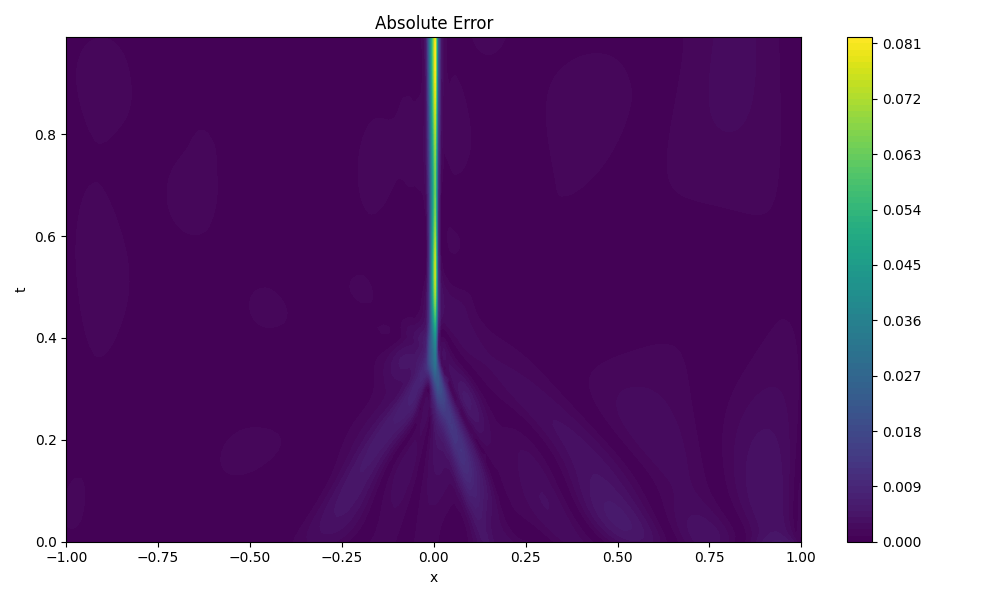
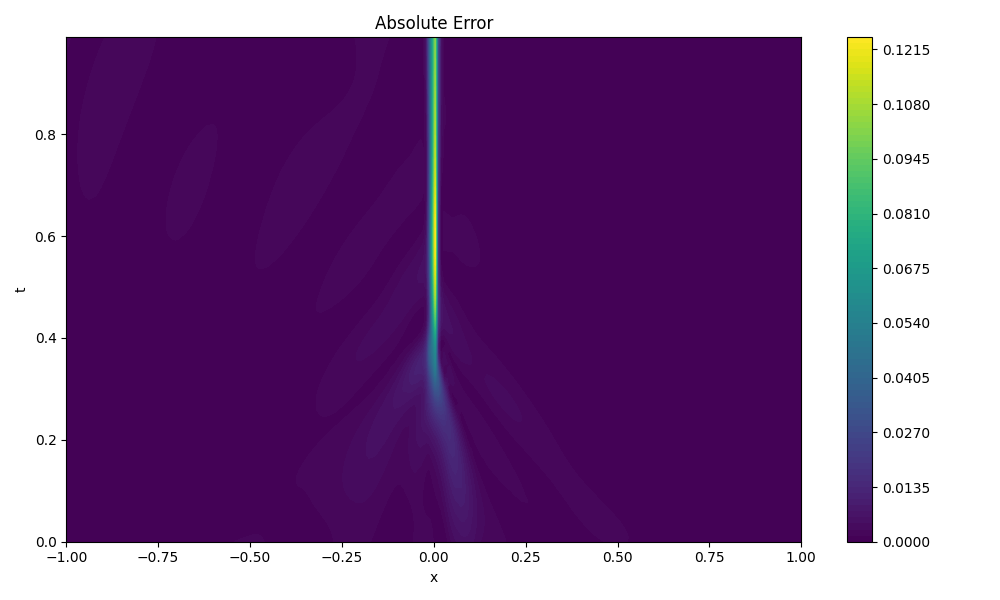
gates, experts画图，soft_topk_gating方法

diff --git a/main.py b/main.py
@@ -12,7 +12,7 @@ import argparse
 import numpy as np
 from functorch import make_functional, vmap
 from moe_module.moe import MOE_Model,MLP_Model
-from moe_module.utils import parse_args, _init_data_dim1, get_optimizer, get_loss_fn, log_with_time,plot_dual_axis, plot_expert_useless_rank, get_activation, generate_data, get_writer,gates_image, Timetxt, runcode
+from moe_module.utils import parse_args, _init_data_dim1, get_optimizer, get_loss_fn, log_with_time,plot_dual_axis, plot_expert_useless_rank, get_activation, generate_data, get_writer,gates_experts_image, save_model, Timetxt, runcode
 from moe_module.epi_rank import epi_rank_mlp
 # download data
 import torchvision.transforms as transforms
@@ -95,7 +95,7 @@ def train_loop(X_init, X_bnd, X_f, X_total, u_init, model,loss_fn, optim, args,s
         if step % 100 == 0:
             eval_model(step,X_init, X_bnd, X_f, X_total, u_init, model, loss_fn,moe_training,args)
             if moe_training:
-                gates_image(model,args.X_test,args.writer)
+                gates_experts_image(model,args.X_test, step, args.writer)
 
             #update points
             # args.seed=args.seed+step
@@ -142,6 +142,10 @@ def train_loop(X_init, X_bnd, X_f, X_total, u_init, model,loss_fn, optim, args,s
                 total_rank_list.append(rank[args.plt_r])
                 tqdm.write(f"Step {step+1}/{steps} - loss: {loss.item():.8f} -rank: {rank}")
                 args.writer.add_scalar('MLP_Loss', total_loss.item(), step)
+
+    if moe_training: save_model(model, "moe")
+    else: save_model(model, "mlp")
+
     return model,total_loss_list,total_rank_list,total_useless_expert_rank
             
 def eval_model(step,X_init, X_bnd, X_f, X_total, u_init, model, loss_fn,moe_training=True,args=None):
@@ -249,34 +253,6 @@ def eval_model(step,X_init, X_bnd, X_f, X_total, u_init, model, loss_fn,moe_trai
     plt.show()
 
 # %%
-    # # ---------- 如果是 MoE，再画 experts ----------
-    # if moe_training and model is not None:
-    #     fig, ax2 = plt.subplots(figsize=(10, 8))
-    #     for i in range(model.model[0].num_experts):
-    #         experts_outputs = model.model[0].experts[i](x)
-    #         Z_expert = experts_outputs.detach().cpu().numpy().flatten().reshape(nx, nt)
-    #         cf = ax2.contourf(X1, X2, Z_expert, levels=100, alpha=0.5, cmap='coolwarm')
-    #         plt.colorbar(cf, ax=ax2)
-    #         plt.title(f"Expert {i+1} Output Function")
-    #         plt.xlabel("x")
-    #         plt.ylabel("t")
-    #         plt.savefig(f"expert_{i+1}_function.png")
-    #         plt.show()
-
-    # if moe_training:
-    #     # Plot experts functions
-    #     fig, ax2 = plt.subplots(figsize=(17, 9))
-    #     ax2.plot(x.cpu().numpy(), y.cpu().numpy(), label='Ground Truth', color='k')
-    #     for i in range(model.model[0].num_experts):
-    #         experts_outputs = model.model[0].experts[i](x)
-    #         # plt.subplot(1, model.model[0].num_experts, i + 1)
-    #         ax2.plot(x.cpu().numpy(), experts_outputs.detach().cpu().numpy(), label=f'Expert {i+1}')
-    #         plt.title(f'Experts Function')
-
-    #     fig.tight_layout()
-    #     plt.savefig(f"experts_functions.png")  # 保存图像
-    #     plt.show()
-# %%
 
 
 def main():
@@ -298,6 +274,7 @@ def main():
                          )
 
     model_moe=MOE_Model(args.input_size, args.num_experts,args.hidden_size,args.depth, args.output_size,args.k,args.loss_coef, activation).to(args.device)
+    args.writer.add_text("Numbers of parameters: ",f"{model_moe._report_trainable()}")
     optimizer = get_optimizer(args.optim,model_moe.parameters(), lr=args.lr)
     model,total_loss_list_moe,rank_list_moe,total_useless_expert_rank_moe=train_loop(data_X_init,data_X_bnd,data_X_f,data_X_total,data_u_init, model_moe,loss_fn, optimizer, args,args.opt_steps, moe_training=True)
     eval_model(args.opt_steps+args.lbfgs_steps,data_X_init,data_X_bnd,data_X_f,data_X_total,data_u_init, model, loss_fn,moe_training=True,args=args)
@@ -305,6 +282,7 @@ def main():
     plot_expert_useless_rank(np.array(total_loss_list_moe),np.array(total_useless_expert_rank_moe),args.opt_steps+args.lbfgs_steps,"moe")
 
     # model_mlp=MLP_Model(args.input_size, args.hidden_size,args.depth, args.output_size, activation).to(args.device)
+    # args.writer.add_text("Numbers of parameters: ", f"{model_mlp._report_trainable()}")
     # optimizer_mlp=get_optimizer(args.optim,model_mlp.parameters(), lr=args.lr)
     # model_mlp,total_loss_list_mlp,rank_list_mlp,total_useless_expert_rank_mlp=train_loop(data_X_init,data_X_bnd,data_X_f,data_X_total,data_u_init, model_mlp,loss_fn, optimizer_mlp, args,args.opt_steps,moe_training=False)
     # eval_model(args.opt_steps+args.lbfgs_steps,data_X_init,data_X_bnd,data_X_f,data_X_total,data_u_init, model_mlp, loss_fn,moe_training=False,args=args)
@@ -313,5 +291,4 @@ def main():
 
 if __name__ == "__main__":
     torch.set_default_dtype(torch.float64)
-    main()      
-    
+    main()

diff --git a/moe_module/utils.py b/moe_module/utils.py
@@ -18,7 +18,7 @@ def parse_args():
     parser = argparse.ArgumentParser(description="Train a Mixture-of-Experts model.")
     parser.add_argument("--epochs", type=int, default=10, help="Number of training epochs.")
     parser.add_argument("--lr", type=float, default=1e-3, help="Learning rate.")
-    parser.add_argument("--lr_decay", type=float, default=0.995, help="Learning rate decay factor.")
+    parser.add_argument("--lr_decay", type=float, default=0.997, help="Learning rate decay factor.")
     parser.add_argument("--lr_step", type=int, default=50, help="Learning rate decay step size.")
     parser.add_argument("--device", type=str, default="cuda:5" if torch.cuda.is_available() else "cpu", help="Device to train on.")    
     parser.add_argument("--input_size", type=int, default=2,help="Input size (funcion approximation x) ")
@@ -28,7 +28,7 @@ def parse_args():
     parser.add_argument("--depth", type=int, default=7,help="Depth of the MOE model")
     parser.add_argument("--lossfn", type=str, default="mse", help="Loss function.")
     parser.add_argument("--optim", type=str, default="adamw")
-    parser.add_argument("--opt_steps", type=int, default=40000)
+    parser.add_argument("--opt_steps", type=int, default=100000)
     parser.add_argument("--activation", type=str, default="tanh", help="activation_function")
     parser.add_argument("--init_func", type=str, default="-sin(pi*x)", help="function")
     parser.add_argument("--x_interval", type=str, default="[-1,1]")
@@ -320,13 +320,13 @@ def save_model(model,name='mlp'):
     torch.save(model.state_dict(), save_path)
     print(f"✅ 模型已保存到: {save_path}")
     
-def gates_image(model,X_test,writer):
+def gates_experts_image(model,X_test,step,writer):
     """for moe mode MOE_modify_beta"""
     moe=model.moe
     with torch.no_grad():
-        gate_output,_,_=moe.gating_network(X_test,train=False)
-        gate_output= gate_output/(moe.epsilon+1e-1*torch.abs(gate_output)) #+1e-4*torch.abs(gates)
-        gate_output= moe.softmax(gate_output)
+        gate_output, _ = moe.soft_topk_Gating(X_test,train=False)
+        # gate_output, _ = moe.e_softmax_Gating(X_test,train=False)
+        # gate_output, _ = moe.topkGating(X_test,train=False)
 
     x = X_test[:,0].detach().cpu().numpy()
     t = X_test[:,1].detach().cpu().numpy()
@@ -353,7 +353,21 @@ def gates_image(model,X_test,writer):
         ax.set_xlabel("x"); ax.set_ylabel("t")
         fig.colorbar(im, ax=ax)
     plt.savefig("gates distribution.png")
-    writer.add_figure("gates_distribution", fig)
+    writer.add_figure("gates_distribution", fig, step)
+
+    cols = min(E, 4)
+    rows = int(np.ceil(E/cols))
+    fig2, axes2 = plt.subplots(rows, cols, figsize=(4*cols, 3.5*rows), squeeze=False)
+    for i in range(E):
+        experts_outputs = model.model[0].experts[i](X_test)
+        experts_outputs = experts_outputs.detach().cpu().numpy().flatten().reshape(nx, nt)
+        ax = axes2[i//cols][i%cols]
+        im = ax.contourf(Xg, Tg, experts_outputs, levels=100, cmap='coolwarm', vmin=-1, vmax=1)
+        ax.set_title(f"Expert {i} output")
+        ax.set_xlabel("x"); ax.set_ylabel("t")
+        fig2.colorbar(im, ax=ax)
+    plt.savefig("experts_output.png")
+    writer.add_figure("experts_output", fig2, step)
 
     plt.tight_layout(); plt.show()
         

diff --git a/moe_module/moe.py b/moe_module/moe.py
@@ -338,6 +338,24 @@ class MoE(nn.Module):
             
             return gates,load
     
+    def soft_topk_Gating(self,x,train, tau1: float = 1e-1, tau2: float = 1e-1):
+        gates,_,_=self.gating_network(x,train)
+        gates=self.softmax(gates)
+        diff = torch.unsqueeze(gates,-1) - torch.unsqueeze(gates,-2)
+        sigma = torch.sigmoid(-diff / tau1)
+        row_sum = sigma.sum(dim=-1) - 0.5
+        r_tilde = 1.0 + row_sum
+        eps=0.5 
+        a = torch.sigmoid((self.k+eps - r_tilde) / tau2)     
+
+        gates=a*gates
+        gates=gates/(gates.sum(dim=-1,keepdim=True)+1e-8)
+
+        load = self._gates_to_load(gates)
+        load=load.float()
+
+        return gates, load
+
     def e_softmax_Gating(self,x,train):
             ## topk--> softmax
             noisy,clean,noisy_stddev=self.gating_network(x,train)
@@ -362,7 +380,8 @@ class MoE(nn.Module):
         
         
     def forward(self,x,train):
-        gates,load= self.e_softmax_Gating(x,train) #[E,]
+        gates,load= self.soft_topk_Gating(x,train) #[E,]
+        # gates,load= self.e_softmax_Gating(x,train) #[E,]
         # gates,load= self.topkGating(x,train) #[E,]
         self.gates_check=gates
         # if not train:
@@ -431,6 +450,7 @@ class MOE_Model(nn.Module):
                     n = p.numel()
                     total += n
             print(f"Total trainable params: {total}\n")
+            return total
     def _init_weights(self):
             for m in self.modules():
                 if isinstance(m, nn.Linear):
@@ -476,6 +496,7 @@ class MLP_Model(nn.Module):
     def _report_trainable(self):
         total = sum(p.numel() for p in self.parameters() if p.requires_grad)
         print(f"=== Trainable parameters ===\nTotal trainable params: {total}\n")
+        return total
 
     @staticmethod
     def _init(m):
